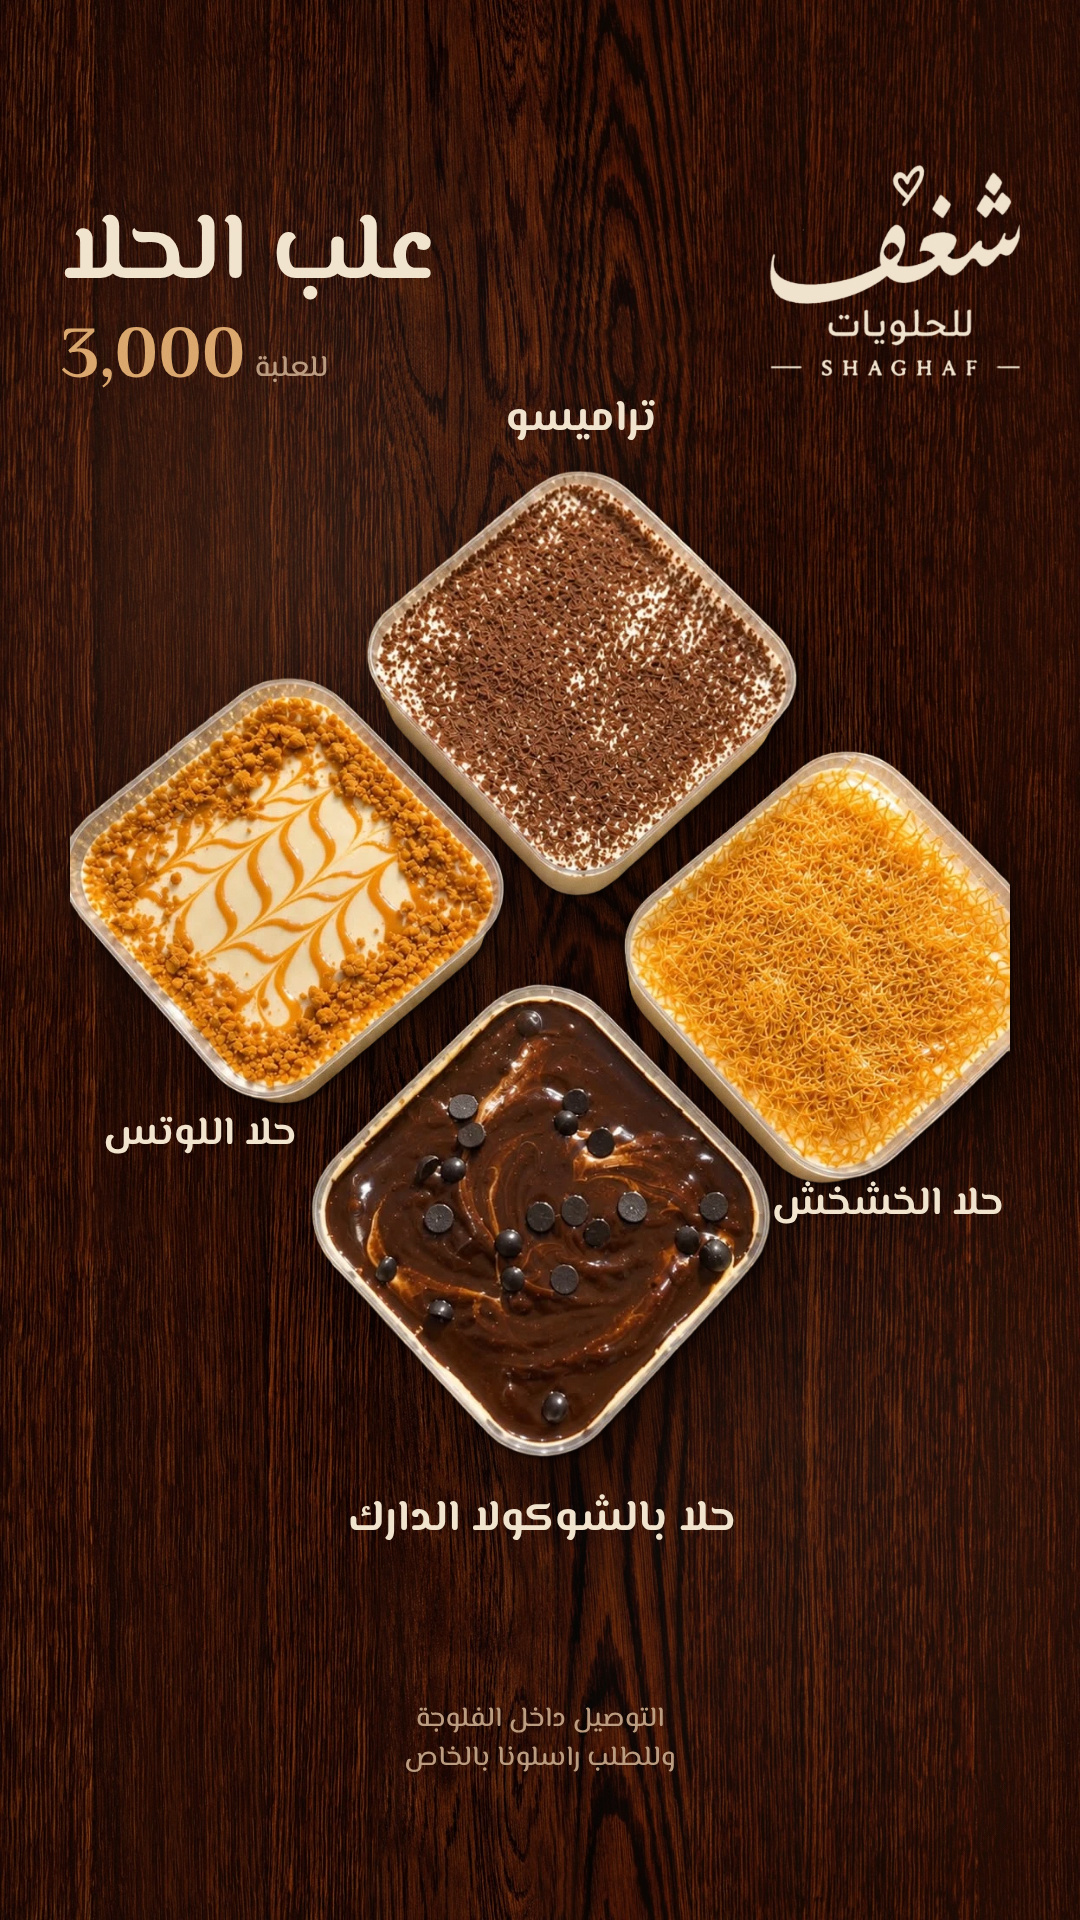
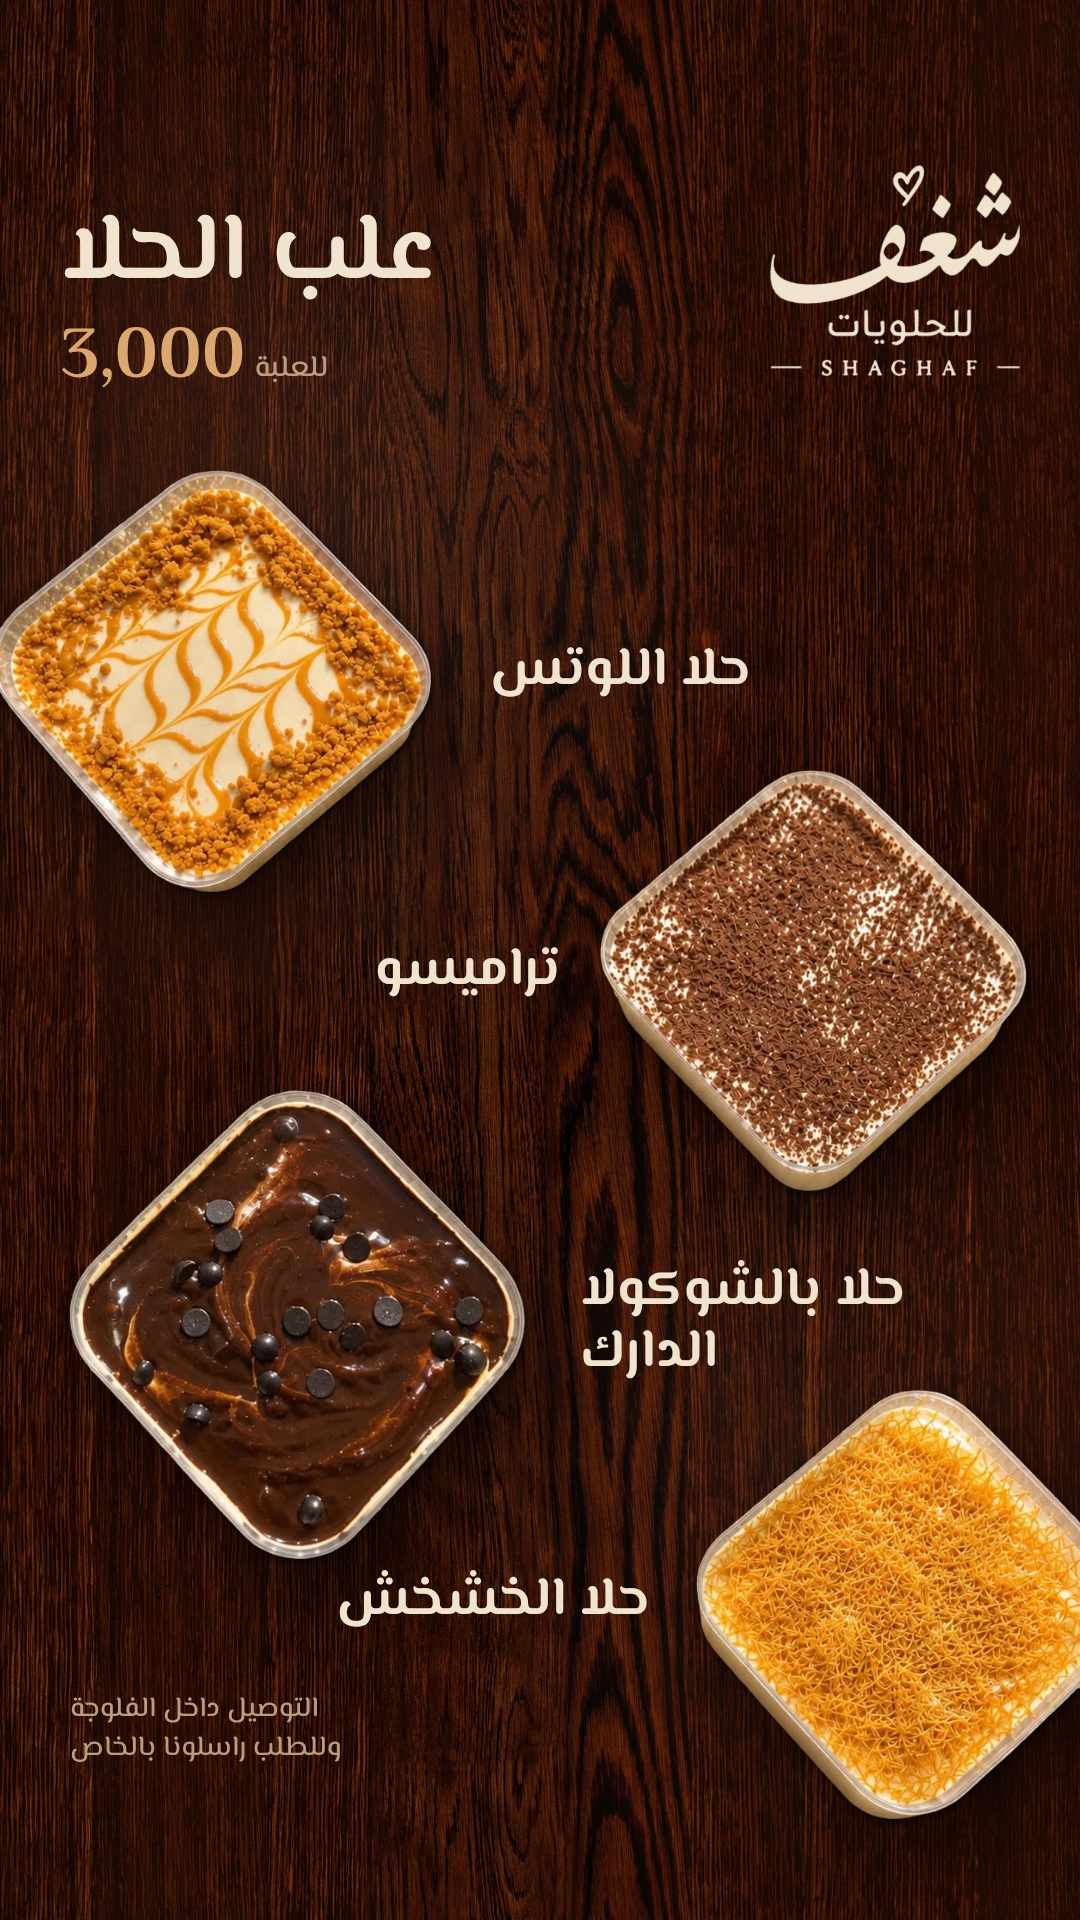
Shaghaf menu: each cup on its own, zigzag down the story

diff --git a/marketing/shaghaf-menu/menu.html b/marketing/shaghaf-menu/menu.html
@@ -65,15 +65,21 @@ const STORIES = {
     ],
   },
   'story-3': {
-    note: [540, 1700, 'center'],
+    note: [70, 1690, 'left'],
     head: true,
-    // his cut-out of the four cups, laid on the table; each name sits next to its own cup
-    o: [['cups-cut.png', 'round', 70, 470, 940, 0]],
+    // the four cups from my cut-out, one by one down the story; the lotus and the khashkhash, cut off in her photo,
+    // sit against the story edges, and each name is in the space beside its cup
+    o: [
+      ['cup-lotus.png', 'round', 0, 470, 431, 0],
+      ['cup-tiramisu.png', 'round', 600, 770, 427, 0],
+      ['cup-chocolate.png', 'round', 70, 1090, 455, 0],
+      ['cup-khashkhash.png', 'round', 696, 1390, 384, 0],
+    ],
     t: [
-      [581, 395, 'center', 'تراميسو', '', '', 44],
-      [200, 1112, 'center', 'حلا اللوتس', '', '', 40],
-      [888, 1182, 'center', 'حلا الخشخش', '', '', 40],
-      [542, 1495, 'center', 'حلا بالشوكولا الدارك', '', '', 44],
+      [490, 640, 'left', 'حلا اللوتس', '', '', 54],
+      [560, 940, 'right', 'تراميسو', '', '', 54],
+      [580, 1260, 'left', 'حلا بالشوكولا<br>الدارك', '', '', 54],
+      [650, 1570, 'right', 'حلا الخشخش', '', '', 54],
     ],
   },
 };

diff --git a/marketing/shaghaf-menu/cups.py b/marketing/shaghaf-menu/cups.py
@@ -1,0 +1,27 @@
+# Splits my cut-out of her four cups into one PNG per cup, at the angle they sit in her photo: python3 -I cups.py
+# Her photo cuts off the lotus on the left and the khashkhash on the right; those cut sides go against the story edges.
+import os
+import numpy as np
+from PIL import Image
+from skimage.measure import label, regionprops
+
+here = os.path.dirname(os.path.abspath(__file__))
+im = Image.open(os.path.join(here, 'art/cups-cut.png')).convert('RGBA')
+a = np.asarray(im)
+lab = label(a[..., 3] > 40)
+cups = sorted(regionprops(lab), key=lambda r: -r.area)[:4]
+# top, left, right and bottom of her diamond
+by = {
+    'tiramisu': min(cups, key=lambda r: r.centroid[0]),
+    'chocolate': max(cups, key=lambda r: r.centroid[0]),
+    'lotus': min(cups, key=lambda r: r.centroid[1]),
+    'khashkhash': max(cups, key=lambda r: r.centroid[1]),
+}
+for name, r in by.items():
+    one = a.copy()
+    one[lab != r.label, 3] = 0
+    y0, x0, y1, x1 = r.bbox
+    cup = Image.fromarray(one).crop((max(x0 - 40, 0), max(y0 - 40, 0), x1 + 40, y1 + 40))
+    out = cup.crop(cup.getbbox())
+    Image.frombytes('RGBA', out.size, out.tobytes()).save(os.path.join(here, f'art/cup-{name}.png'), optimize=True)
+    print(name, out.size)

diff --git a/marketing/shaghaf-menu/README.md b/marketing/shaghaf-menu/README.md
@@ -8,7 +8,8 @@ Each story leads with one dessert big, with its name large beside it, and the ot
 wooden table (she found the plain cloth too plain, 29 Oct) under a window light from the top left, in the brown and beige of her logo, so her desserts
 glow on it the way they do in her own photos. Round plates and trays are her photos cut on the rim as a circle or an
 ellipse, so they lie on the table like dishes. The cups are my own cut-out of her cups photo (`art/cups-cut.png`),
-laid on the table with each name beside its cup. The box and the cakes are her photos as prints with a slight
+split into one cup each by `cups.py` and set in a zigzag down the story, each name in the space beside its cup; the
+lotus and the khashkhash, cut off in her photo, sit against the story edges. The box and the cakes are her photos as prints with a slight
 tilt. Every dish has three shadows, falling to the bottom right.
 
 Earlier versions: cut-outs on a light cloth (edges and mixed camera angles looked pasted) and a plain grid of squares
